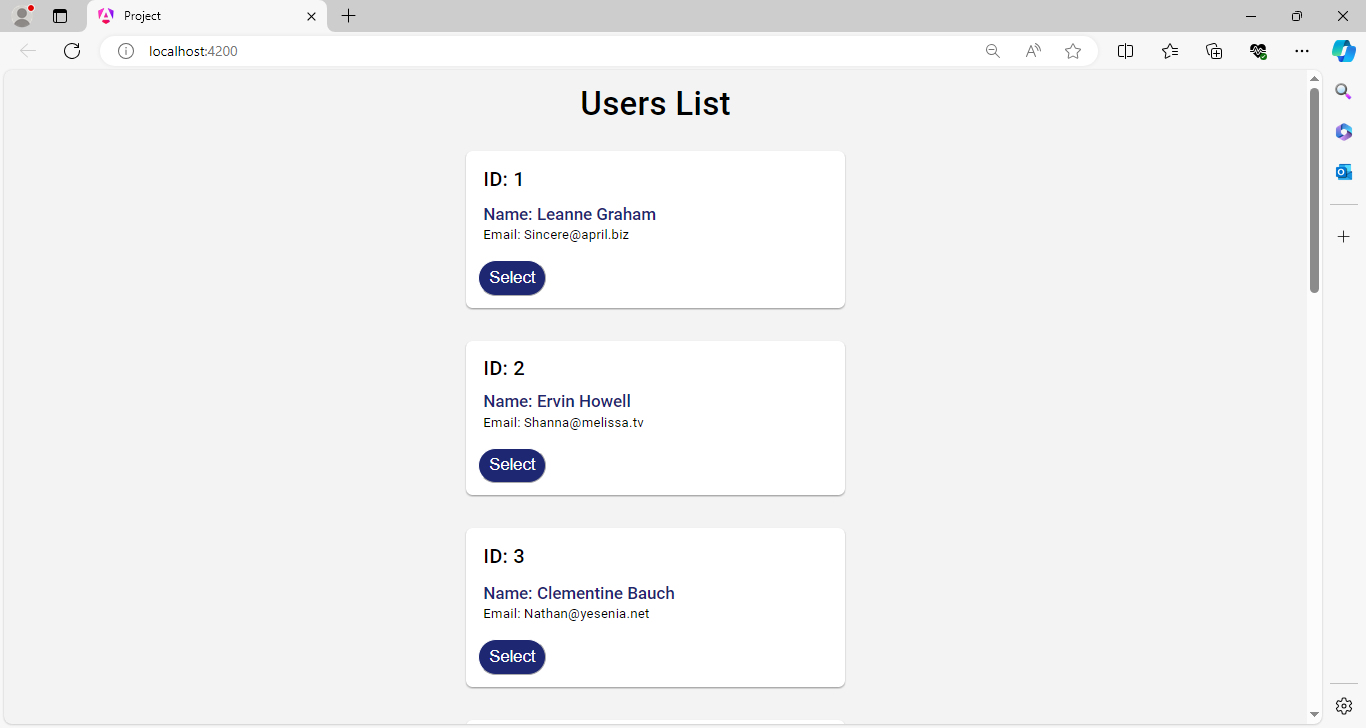
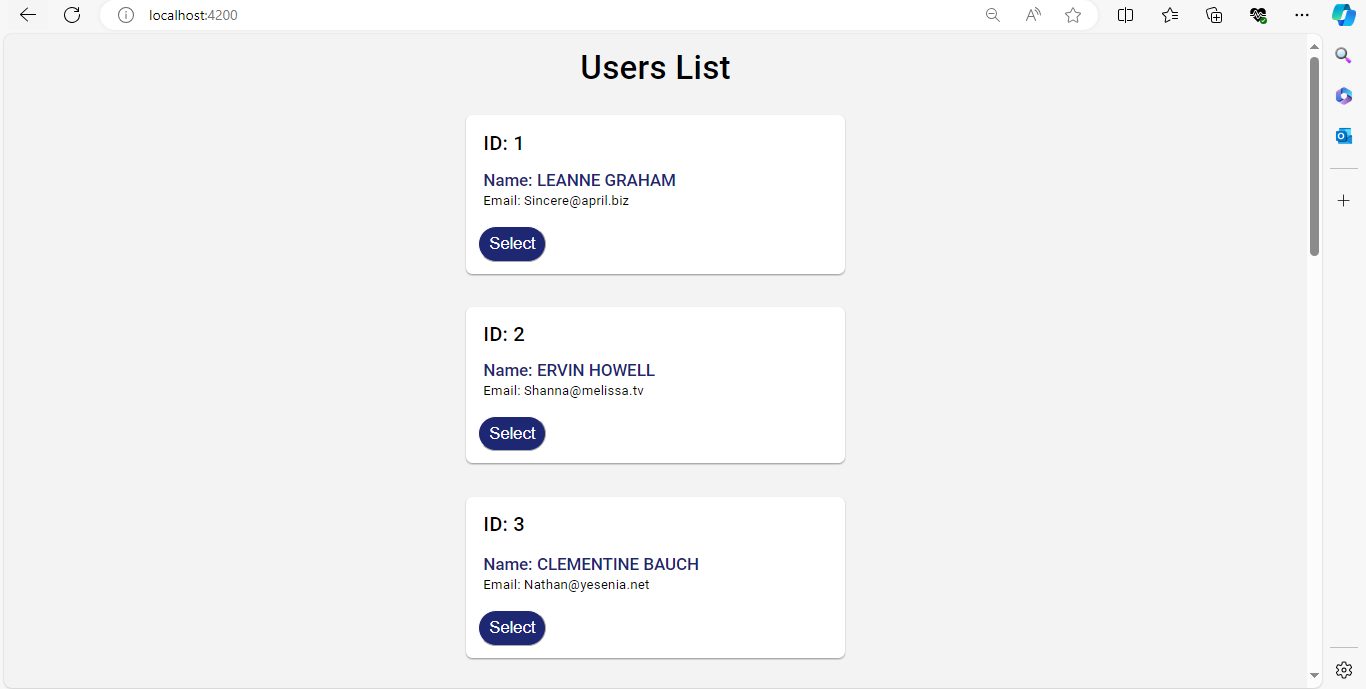
final images

diff --git a/src/app/user-card/user-card.component.html b/src/app/user-card/user-card.component.html
@@ -2,7 +2,7 @@
   <mat-card class="card">
     <mat-card-header>
       <mat-card-title  style="font-size: 30px;">ID: {{ user.id}}</mat-card-title>
-      <mat-card-subtitle  style="font-size: 25px; padding-top: 10%; color:rgb(30, 39, 114);">Name: {{ user.name ? user.name : 'N/A' | uppercase }}</mat-card-subtitle>
+      <mat-card-subtitle  style="font-size: 25px; padding-top: 10%; color:rgb(30, 39, 114);">Name: {{ user.name | uppercase }}</mat-card-subtitle>
     </mat-card-header>
     <mat-card-content style="padding-top: 10px; font-size: 20px;">
         Email: {{ user.email ? user.email : 'N/A' }}

diff --git a/src/app/app.module.ts b/src/app/app.module.ts
@@ -8,13 +8,15 @@ import { AppComponent } from './app.component';
 import { HomeComponent } from './home/home.component';
 import { UserCardComponent } from './user-card/user-card.component';
 import { UserDetailsComponent } from './user-details/user-details.component';
+import { UppercasePipe } from './uppercase.pipe';
 
 @NgModule({
   declarations: [
     AppComponent,
     HomeComponent,
     UserCardComponent,
-    UserDetailsComponent
+    UserDetailsComponent,
+    UppercasePipe
   ],
   imports: [
     BrowserModule,

diff --git a/src/app/user-details/user-details.component.html b/src/app/user-details/user-details.component.html
@@ -2,7 +2,7 @@
     <h2 class="title">User Details</h2>
     <div class="details"> 
     <p><strong>ID:</strong> {{ user.id }}</p>
-    <p><strong>Name:</strong> {{ user.name }}</p>
+    <p><strong>Name:</strong> {{ user.name | uppercase}}</p>
     <p><strong>Username:</strong> {{ user.username }}</p>
     <p><strong>Email:</strong> {{ user.email }}</p>
     <p><strong>Address:</strong> {{ user.address.street }}, {{ user.address.suite }}, {{ user.address.city }}, {{ user.address.zipcode }}</p>

diff --git a/src/app/uppercase.pipe.ts b/src/app/uppercase.pipe.ts
@@ -1,0 +1,11 @@
+import { Pipe, PipeTransform } from '@angular/core';
+
+@Pipe({
+  name: 'uppercase'
+})
+export class UppercasePipe implements PipeTransform {
+
+  transform(value: string): string {
+    return value.toUpperCase();
+  }
+}

diff --git a/src/app/uppercase.pipe.spec.ts b/src/app/uppercase.pipe.spec.ts
@@ -1,0 +1,8 @@
+import { UppercasePipe } from './uppercase.pipe';
+
+describe('UppercasePipe', () => {
+  it('create an instance', () => {
+    const pipe = new UppercasePipe();
+    expect(pipe).toBeTruthy();
+  });
+});
